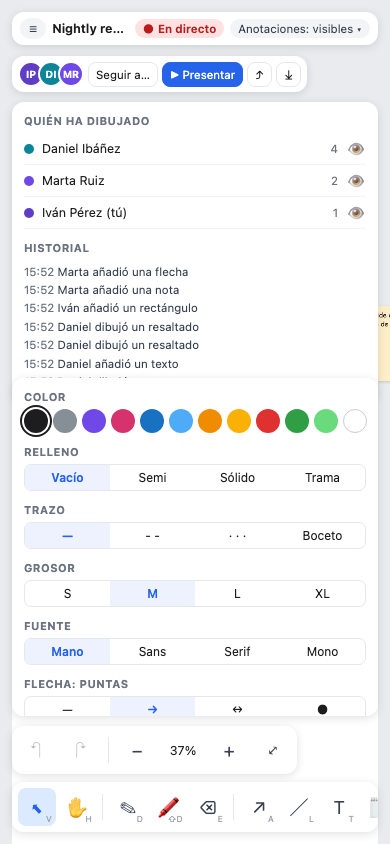
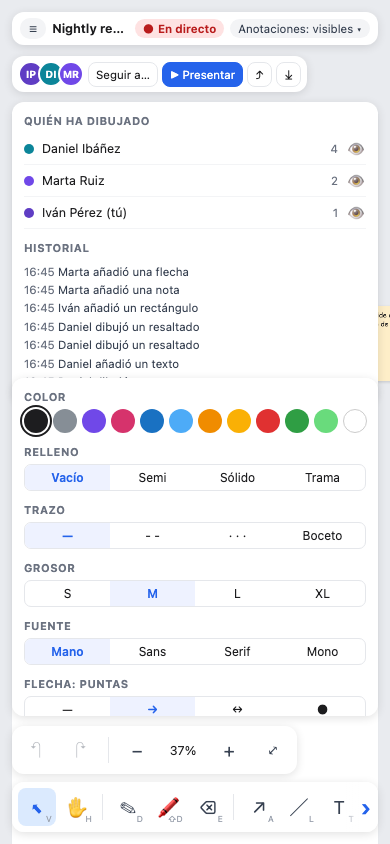
fix(client): every toolbar tool reachable on phones (paged scroll with chevrons)
At 390x844 the bottom toolbar overflowed with a hidden scrollbar and no affordance: the
sticky note and every tool after it were off-screen. The bar now sits in a wrapper with a
fade + chevron on each side that still hides tools; the chevrons page the bar, the
selected tool (e.g. via a shortcut) is scrolled into view, and nothing changes at wide
desktop widths. Narrow desktops (761-1240 px) get the same affordance.

client/e2e/phone.spec.ts reaches and clicks all 15 tools at 390x844 and 360x780 the way a
person would (chevrons only, elementFromPoint at each tool's centre, then the click
activates it). Screenshots refreshed, plus phone-390x844-toolbar-end and phone-360x780.

Changed region(s): [[0.0615, 0.3081, 0.4923, 0.4621], [0.9231, 0.955, 0.9538, 0.9858]]

diff --git a/client/e2e/phone.spec.ts b/client/e2e/phone.spec.ts
@@ -1,0 +1,129 @@
+import { expect, test, type Page } from '@playwright/test';
+import { newRoom, open } from './helpers';
+
+/**
+ * Every tool of the bottom toolbar must be reachable on a phone, the way a person reaches
+ * it: by paging the bar with its visible chevrons (no hidden scrollbar tricks, no
+ * Playwright auto-scroll). For each button we page until it is fully visible and not under
+ * a chevron, check that it is the element at its own centre, and click it there.
+ */
+const PHONES = [
+  { width: 390, height: 844 },
+  { width: 360, height: 780 },
+];
+
+interface Box { left: number; right: number; top: number; bottom: number }
+
+async function toolIds(page: Page): Promise<string[]> {
+  return page.locator('[data-testid="toolbar"] .tool').evaluateAll((els) =>
+    els.filter((e) => !e.closest('.popover')).map((e) => (e as HTMLElement).dataset.testid!));
+}
+
+/** Visible, unobstructed horizontal band of the bar (minus any visible chevron). */
+async function freeBand(page: Page): Promise<Box> {
+  return page.evaluate(() => {
+    const bar = document.querySelector('[data-testid="toolbar"]')!.getBoundingClientRect();
+    const band = { left: Math.max(0, bar.left), right: Math.min(window.innerWidth, bar.right), top: bar.top, bottom: bar.bottom };
+    for (const id of ['toolbar-prev', 'toolbar-next']) {
+      const el = document.querySelector<HTMLElement>(`[data-testid="${id}"]`)!;
+      if (el.hidden) continue;
+      const r = el.getBoundingClientRect();
+      if (id === 'toolbar-prev') band.left = Math.max(band.left, r.right);
+      else band.right = Math.min(band.right, r.left);
+    }
+    return band;
+  });
+}
+
+const scrollX = (page: Page): Promise<number> => page.getByTestId('toolbar').evaluate((b) => b.scrollLeft);
+
+/** Wait until the bar has moved away from `from` (smooth scroll started) and then stopped. */
+async function settle(page: Page, from?: number): Promise<void> {
+  if (from !== undefined) {
+    for (let i = 0; i < 40 && (await scrollX(page)) === from; i++) await page.waitForTimeout(25);
+  }
+  let last = await scrollX(page);
+  let still = 0;
+  for (let i = 0; i < 80 && still < 4; i++) {
+    await page.waitForTimeout(40);
+    const x = await scrollX(page);
+    still = x === last ? still + 1 : 0;
+    last = x;
+  }
+}
+
+async function clickChevron(page: Page, id: 'toolbar-prev' | 'toolbar-next'): Promise<void> {
+  const nav = page.getByTestId(id);
+  await expect(nav, `${id} visible when tools are hidden on that side`).toBeVisible();
+  const r = (await nav.boundingBox())!;
+  const before = await scrollX(page);
+  await page.mouse.click(r.x + r.width / 2, r.y + r.height / 2);
+  await settle(page, before);
+}
+
+for (const vp of PHONES) {
+  test(`every toolbar tool is reachable and clickable at ${vp.width}x${vp.height}`, async ({ browser }) => {
+    const P = await open(browser, 'Phone Tester', newRoom('phone'), { viewport: vp });
+    const page = P.page;
+    // The bar must not stick out of the screen, and it overflows here: the affordance shows.
+    const bar = (await page.getByTestId('toolbar').boundingBox())!;
+    expect(bar.x).toBeGreaterThanOrEqual(0);
+    expect(bar.x + bar.width).toBeLessThanOrEqual(vp.width + 1);
+    await expect(page.getByTestId('toolbar-next')).toBeVisible();
+    await expect(page.getByTestId('toolbar-prev')).toBeHidden();
+
+    const ids = await toolIds(page);
+    expect(ids).toEqual(expect.arrayContaining(["tool-select", "tool-note", "tool-more", "tool-frame", "tool-image", "tool-laser"]));
+    expect(ids.length).toBe(15);
+    for (const id of ids) {
+      const btn = page.locator(`[data-testid="toolbar"] [data-testid="${id}"]`);
+      // Page with the chevrons until the button sits fully in the free band.
+      for (let i = 0; i < 12; i++) {
+        const r = (await btn.boundingBox())!;
+        const band = await freeBand(page);
+        if (r.x >= band.left - 0.5 && r.x + r.width <= band.right + 0.5) break;
+        await clickChevron(page, r.x + r.width > band.right ? 'toolbar-next' : 'toolbar-prev');
+      }
+      const r = (await btn.boundingBox())!;
+      const band = await freeBand(page);
+      expect(r.x, `${id} left edge visible`).toBeGreaterThanOrEqual(band.left - 0.5);
+      expect(r.x + r.width, `${id} right edge visible`).toBeLessThanOrEqual(band.right + 0.5);
+      const cx = r.x + r.width / 2;
+      const cy = r.y + r.height / 2;
+      const hit = await page.evaluate(([x, y, tid]) => {
+        const el = document.elementFromPoint(x as number, y as number);
+        return !!el && !!el.closest(`[data-testid="${tid}"]`);
+      }, [cx, cy, id] as const);
+      expect(hit, `${id} is the element under its own centre`).toBe(true);
+
+      if (id === 'tool-more') {
+        await page.mouse.click(cx, cy);
+        await expect(page.getByTestId('geo-menu')).toHaveClass(/open/);
+        await page.getByTestId('geo-star').click(); // inside the fixed phone grid
+        await expect(page.getByTestId('geo-menu')).not.toHaveClass(/open/);
+        expect(await page.evaluate(() => [(window as any).__canvas.editor.tool, (window as any).__canvas.editor.geoKind])).toEqual(['geo', 'star']);
+      } else {
+        await page.mouse.click(cx, cy);
+        await expect(btn, `${id} became the active tool`).toHaveAttribute('aria-pressed', 'true');
+      }
+    }
+
+    // Paged to the far end: the last tool is in view and the right chevron is gone.
+    await expect(page.getByTestId('toolbar-prev')).toBeVisible();
+    await expect(page.getByTestId('toolbar-next')).toBeHidden();
+    const end = await scrollX(page);
+    await page.keyboard.press('v'); // shortcut back to the first tool scrolls it into view
+    await settle(page, end);
+    const sel = (await page.getByTestId('tool-select').boundingBox())!;
+    const band = await freeBand(page);
+    expect(sel.x).toBeGreaterThanOrEqual(band.left - 0.5);
+    await P.close();
+  });
+}
+
+test('wide desktop shows no toolbar chevrons', async ({ browser }) => {
+  const D = await open(browser, 'Desk', newRoom('desk'));
+  await expect(D.page.getByTestId('toolbar-next')).toBeHidden();
+  await expect(D.page.getByTestId('toolbar-prev')).toBeHidden();
+  await D.close();
+});

diff --git a/client/src/ui/styles.css b/client/src/ui/styles.css
@@ -76,7 +76,15 @@ svg.overlay { position: absolute; inset: 0; width: 100%; height: 100%; pointer-e
    keep their positioning context. */
 .bottomrow { position: absolute; left: 12px; right: 12px; bottom: 16px; z-index: 25; display: flex; align-items: flex-end; justify-content: space-between; gap: 16px; pointer-events: none; }
 .bottomrow > .panel { position: relative; pointer-events: auto; }
-.toolbar { z-index: 25; padding: 6px; display: flex; gap: 2px; align-items: center; flex: 0 1 auto; min-width: 0; }
+.toolbar-wrap { position: relative; display: flex; flex: 0 1 auto; min-width: 0; pointer-events: auto; }
+.toolbar-wrap > .panel { position: relative; }
+.toolbar { z-index: 25; padding: 6px; display: flex; gap: 2px; align-items: center; flex: 0 1 auto; min-width: 0; max-width: 100%; }
+/* Overflow affordance: a fade + chevron on every side that still hides tools (phones and
+   narrow desktops). The chevron pages the bar; it sits above the panel, inside its radius. */
+.tb-nav { position: absolute; top: 0; bottom: 0; width: 34px; z-index: 26; border: 0; padding: 0; cursor: pointer; font-size: 24px; line-height: 1; color: var(--blue); font-weight: 700; display: flex; align-items: center; }
+.tb-nav[hidden] { display: none; }
+.tb-nav.prev { left: 0; justify-content: flex-start; padding-left: 7px; border-radius: 12px 0 0 12px; background: linear-gradient(to right, #fff 55%, rgba(255,255,255,0)); }
+.tb-nav.next { right: 0; justify-content: flex-end; padding-right: 7px; border-radius: 0 12px 12px 0; background: linear-gradient(to left, #fff 55%, rgba(255,255,255,0)); }
 /* Narrow desktop: let the toolbar scroll instead of overlapping the side panels. Not at
    normal widths — `overflow` would clip the geo-grid popover that opens above the bar. */
 @media (min-width: 761px) and (max-width: 1240px) {
@@ -143,7 +151,9 @@ svg.overlay { position: absolute; inset: 0; width: 100%; height: 100%; pointer-e
   /* Phone: back to individually positioned panels (toolbar full width, zoom above it). */
   .bottomrow { position: static; display: block; pointer-events: auto; }
   .bottomrow > .panel { position: absolute; }
-  .toolbar { left: 12px; right: 12px; transform: none; bottom: 12px; overflow-x: auto; justify-content: flex-start; scrollbar-width: none; }
+  .toolbar-wrap { position: absolute; left: 12px; right: 12px; bottom: 12px; z-index: 25; }
+  .bottomrow .toolbar-wrap > .toolbar { position: relative; left: auto; right: auto; bottom: auto; width: 100%; transform: none; overflow-x: auto; justify-content: flex-start; scrollbar-width: none; }
+  .toolbar::-webkit-scrollbar { display: none; }
   .toolbar .tool { width: 38px; height: 38px; }
   .tool[data-tip]:hover::after { display: none; }
   .bottomleft { bottom: 70px; left: 12px; padding: 4px; }

diff --git a/client/src/ui/chrome.ts b/client/src/ui/chrome.ts
@@ -403,7 +403,44 @@ function toolbar(ed: Editor): HTMLElement {
   };
   ed.on('tool', sync);
   sync();
-  return bar;
+  return scrollableToolbar(ed, bar);
+}
+
+/**
+ * Wrap the toolbar so it scrolls horizontally whenever it is wider than the screen (phones,
+ * narrow desktops), with a visible affordance: a fade + chevron button on each side that
+ * still has hidden tools. The chevrons page the bar; the selected tool is kept in view.
+ */
+function scrollableToolbar(ed: Editor, bar: HTMLElement): HTMLElement {
+  const prev = h('button', { class: 'tb-nav prev', 'aria-label': t('ctl.toolsPrev'), title: t('ctl.toolsPrev'), 'data-testid': 'toolbar-prev', hidden: true }, '‹');
+  const next = h('button', { class: 'tb-nav next', 'aria-label': t('ctl.toolsNext'), title: t('ctl.toolsNext'), 'data-testid': 'toolbar-next', hidden: true }, '›');
+  const wrap = h('div', { class: 'toolbar-wrap', 'data-testid': 'toolbar-wrap' }, bar, prev, next);
+  const NAV = 34; // chevron width: a tool under a visible chevron is not reachable yet
+  const update = () => {
+    const max = bar.scrollWidth - bar.clientWidth;
+    const over = max > 1;
+    wrap.classList.toggle('overflow', over);
+    prev.hidden = !over || bar.scrollLeft <= 1;
+    next.hidden = !over || bar.scrollLeft >= max - 1;
+  };
+  const page = (dir: -1 | 1) => bar.scrollBy({ left: dir * Math.max(80, bar.clientWidth - 2 * NAV - 40), behavior: 'smooth' });
+  prev.addEventListener('click', () => page(-1));
+  next.addEventListener('click', () => page(1));
+  bar.addEventListener('scroll', update, { passive: true });
+  window.addEventListener('resize', update);
+  if (typeof ResizeObserver !== 'undefined') new ResizeObserver(update).observe(bar);
+  requestAnimationFrame(update);
+  // Keyboard shortcuts can select a tool that is scrolled out of view: bring it in.
+  ed.on('tool', () => {
+    if (bar.scrollWidth - bar.clientWidth <= 1) return;
+    const on = bar.querySelector<HTMLElement>('.tool.on');
+    if (!on) return;
+    const br = bar.getBoundingClientRect();
+    const r = on.getBoundingClientRect();
+    if (r.left < br.left + NAV) bar.scrollLeft -= br.left + NAV - r.left;
+    else if (r.right > br.right - NAV) bar.scrollLeft += r.right - (br.right - NAV);
+  });
+  return wrap;
 }
 
 // ------------------------------------------------------------------ banner: presenting / following / notices

diff --git a/client/e2e/visual.spec.ts b/client/e2e/visual.spec.ts
@@ -5,7 +5,7 @@ import { dragBox, drawStroke, newRoom, open } from './helpers';
 const OUT = process.env.SCREENSHOT_DIR ?? 'screenshots';
 
 // Recreates the meeting of the approved mockup: 3 people, notes, a circled chart, a highlight, an arrow.
-test('screenshots at 1440x900 and 390x844', async ({ browser }) => {
+test('screenshots at 1440x900, 390x844 and 360x780', async ({ browser }) => {
   fs.mkdirSync(OUT, { recursive: true });
   const room = newRoom('visual');
   const D = await open(browser, 'Daniel Ibáñez', room);
@@ -73,5 +73,16 @@ test('screenshots at 1440x900 and 390x844', async ({ browser }) => {
     return getComputedStyle(el).display !== 'none' && (r.right > window.innerWidth + 1 || r.left < -1);
   }).map((el) => el.className));
   expect(overflow).toEqual([]);
-  for (const o of [D, M, I, P]) await o.close();
+  await P.page.locator('.panels-btn').click();
+  // the toolbar overflows on a phone: its chevron pages to the hidden tools
+  await expect(P.page.getByTestId('toolbar-next')).toBeVisible();
+  for (let k = 0; k < 4 && (await P.page.getByTestId('toolbar-next').isVisible()); k++) {
+    await P.page.getByTestId('toolbar-next').click();
+    await P.page.waitForTimeout(450);
+  }
+  await P.page.screenshot({ path: `${OUT}/phone-390x844-toolbar-end.png` });
+  const S = await open(browser, 'Marta Ruiz', room, { viewport: { width: 360, height: 780 } });
+  await S.page.waitForTimeout(600);
+  await S.page.screenshot({ path: `${OUT}/phone-360x780.png` });
+  for (const o of [D, M, I, P, S]) await o.close();
 });

diff --git a/client/src/i18n/en.ts b/client/src/i18n/en.ts
@@ -128,6 +128,8 @@ export const en: Record<MessageKey, string> = {
   'ctl.zoomOut': 'Zoom out',
   'ctl.zoomIn': 'Zoom in',
   'ctl.fit': 'Zoom to fit',
+  'ctl.toolsPrev': 'More tools to the left',
+  'ctl.toolsNext': 'More tools to the right',
   'ctl.minimap': 'Minimap',
 
   'style.color': 'Colour',

diff --git a/client/src/i18n/es.ts b/client/src/i18n/es.ts
@@ -126,6 +126,8 @@ export const es = {
   'ctl.zoomOut': 'Alejar',
   'ctl.zoomIn': 'Acercar',
   'ctl.fit': 'Encajar todo',
+  'ctl.toolsPrev': 'Más herramientas a la izquierda',
+  'ctl.toolsNext': 'Más herramientas a la derecha',
   'ctl.minimap': 'Minimapa',
 
   'style.color': 'Color',
